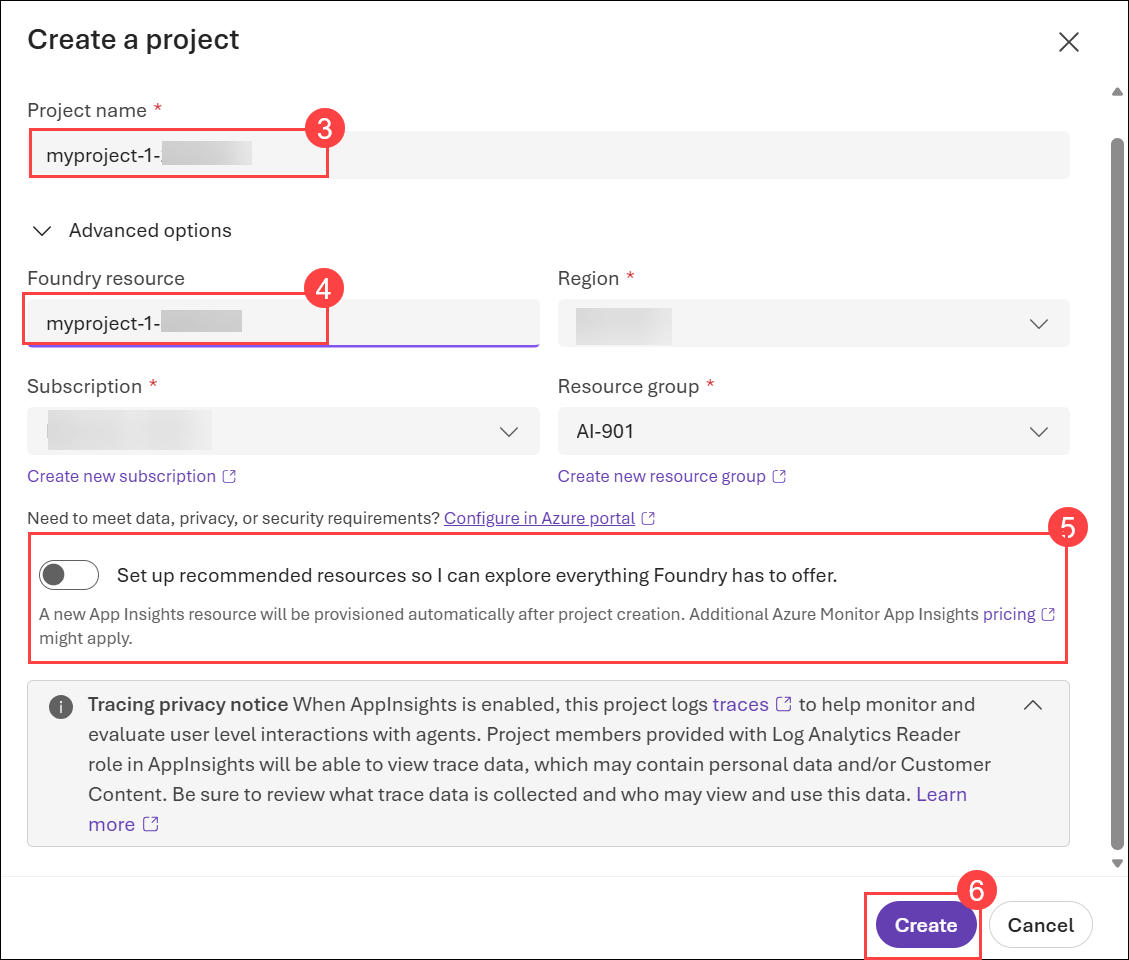
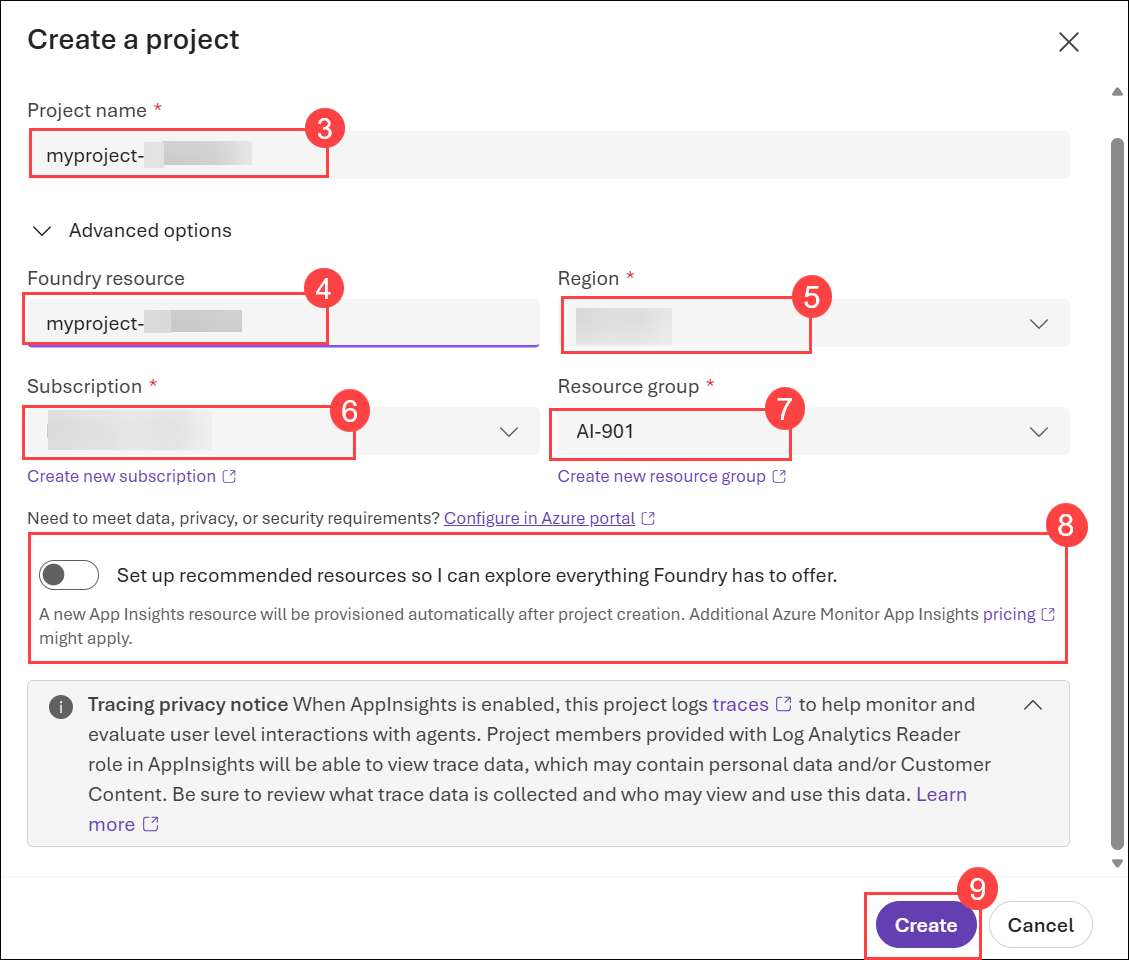
updated the note

diff --git a/Instructions/Labs/05a-image-analysis.md b/Instructions/Labs/05a-image-analysis.md
@@ -200,7 +200,6 @@ To develop a client app or agent that can use the model to interpret images, you
     
     print(f"answer: {response.output[0]}")
     ```
-
     > **Note:** If you are using a work or school account to sign into Azure, and you have sufficient permissions in the Azure subscription, you can open the sample code in VS Code for Web to experiment with image-based input content. You can obtain the **key** for your service in the **Code** tab of the model playground (above the sample code), and you can use the image **[orange.jpg](https://microsoftlearning.github.io/mslearn-ai-fundamentals/data/orange.jpg){:target="_blank"}** at `https://microsoftlearning.github.io/mslearn-ai-fundamentals/data/orange.jpg`. To learn more about using the OpenAI API to analyze images, see the [OpenAI documentation](https://platform.openai.com/docs/guides/images-vision#analyze-images).
 
 
@@ -227,6 +226,12 @@ In this task, you'll deploy an image-generation model and use text prompts to cr
 1. Select the **FLUX.2-pro** or **gpt-image-1-mini** model.
 
     ![](./media/july26-lab5t1p7.png)
+
+    >**Note:** If you are unable to deploy the model, create a new Microsoft Foundry project. From the **Microsoft Foundry** portal, select the **project selector (1)** at the top of the page, and then select **Create new project (2)**. On the Create a project pane, enter a project name such as **myproject-<inject key="DeploymentID" enableCopy="false" /> (3)**, verify that the **Foundry resource (4)** is automatically populated, verify that the **Region** is set to **<inject key="Location" enableCopy="false" /> (5)**, verify that the default **Subscription (6)** is selected, and then select the resource group **AI-901 (7)**, leave the **Set up recommended resources so I can explore everything Foundry has to offer option** **disabled (8)**, and then select **Create (9)**. After the project has been created successfully, use the newly created project to complete the remaining steps in this task.
+
+    ![](./media/img2.png)
+
+    ![](./media/img3.png)
 
 1. On the **gpt-image-1-mini** page, click on **Deploy (1)** and then select **Default settings (2)**.
 
@@ -315,8 +320,10 @@ In this task, you'll deploy a video-generation model and use text prompts to gen
 
     ![](./media/ai901-l5-10.png)
 
-    >**Note:** If you are unable to deploy the model, create a new Microsoft Foundry project. From the Microsoft Foundry portal, select the **project selector (1)** at the top of the page, and then select **Create new project (2)**. On the Create a project pane, enter a Project name like **myproject-1-<inject key="DeploymentID" enableCopy="false" /> (3)**, verify that the **Foundry resource (4)** is automatically populated, leave the Set up recommended resources so I can explore everything Foundry has to offer option **disabled (5)**, and then select **Create (6)**. Once the project has been created successfully, proceed with the remaining steps in this task.
+    >**Note:** If you are unable to deploy the model, create a new Microsoft Foundry project. From the **Microsoft Foundry** portal, select the **project selector (1)** at the top of the page, and then select **Create new project (2)**. On the Create a project pane, enter a project name such as **myproject-<inject key="DeploymentID" enableCopy="false" /> (3)**, verify that the **Foundry resource (4)** is automatically populated, verify that the **Region (5)** is set to **East US 2**, ensure that the default **Subscription (6)** and **Resource group (7)** are selected, leave the **Set up recommended resources so I can explore everything Foundry has to offer option** **disabled (8)**, and then select **Create (9)**. After the project has been created successfully, use the newly created project to complete the remaining steps in this task.
+
     ![](./media/img2.png)
+
     ![](./media/img3.png)
 
 1. On the **sora-2** page, click on **Deploy (1)** and then select **Default settings (2)**.
